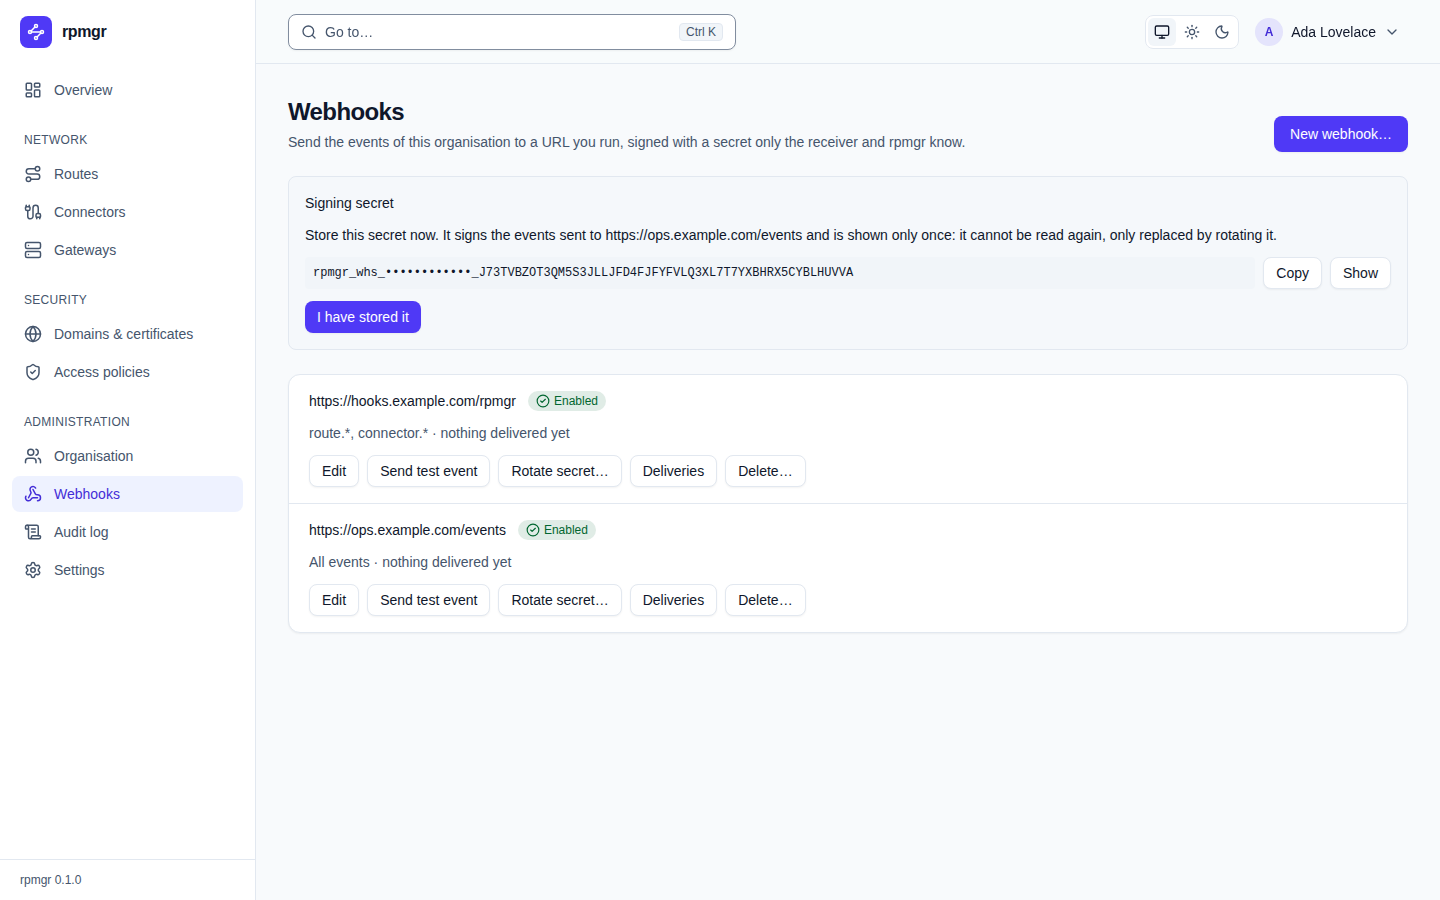
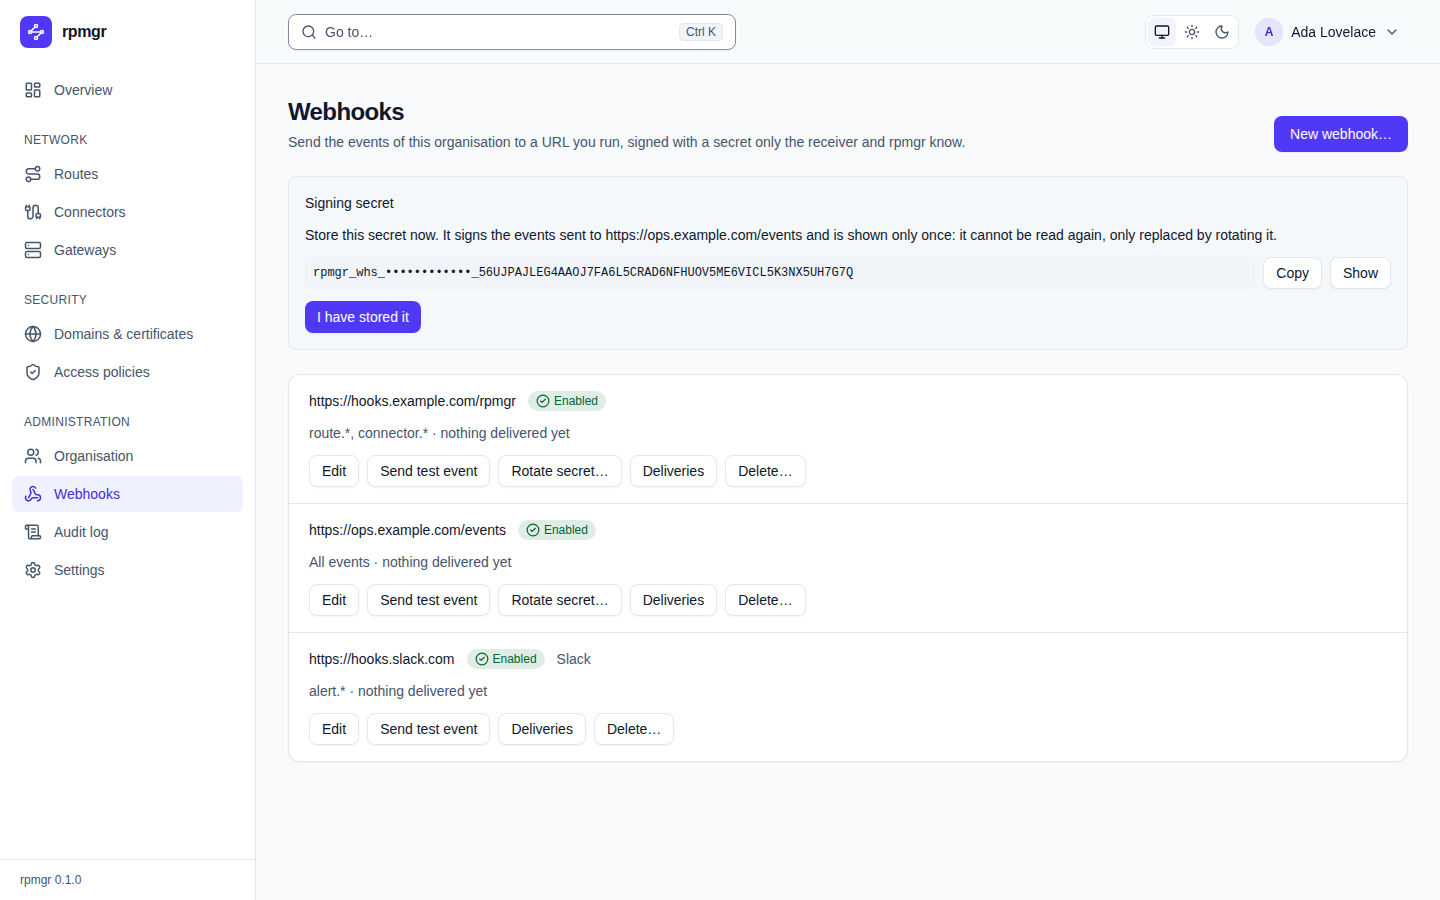
feat(web): choose a webhook's format, with a write-only chat URL
A chat endpoint's URL holds the service's token, so its field starts empty, a row shows the host only, no signing secret is shown and Rotate is not offered. Also the guide, its screenshot and the changelog.

diff --git a/web/src/pages/webhooks.tsx b/web/src/pages/webhooks.tsx
@@ -8,7 +8,7 @@ import { Webhook as WebhookIcon } from "lucide-react";
 import { useState, type FormEvent } from "react";
 import { useTranslation } from "react-i18next";
 import { EmptyState } from "@/components/empty-state";
-import { Field } from "@/components/field";
+import { Field, labelClass } from "@/components/field";
 import { OneTimeToken } from "@/components/one-time-token";
 import { PageHeader } from "@/components/page-header";
 import { Alert } from "@/components/public-page";
@@ -16,14 +16,24 @@ import { Row, RowList, panel } from "@/components/row-list";
 import { Status, type Look } from "@/components/status";
 import { Button } from "@/components/ui/button";
 import { Card } from "@/components/ui/card";
+import { Select } from "@/components/ui/input";
 import { Switch } from "@/components/ui/switch";
-import { InstanceWebhookService, WebhookService, type Webhook, type WebhookDelivery } from "@/gen/rpmgr/v1/webhook_pb";
+import { InstanceWebhookService, WebhookFormat, WebhookService, type Webhook, type WebhookDelivery } from "@/gen/rpmgr/v1/webhook_pb";
 import { apiError, serverProblems, type Problems } from "@/lib/api-error";
 import { Reason, reasonOf } from "@/lib/errors";
 import { when } from "@/lib/format";
 import { useOrg } from "@/session";
 
-const shown = ["url", "event_types"];
+const shown = ["url", "secret_url", "event_types"];
+
+// The formats of an endpoint (docs/07-api.md, "Webhooks"): rpmgr's signed JSON, or a message for a
+// chat service, whose URL holds the service's token (D162).
+const formats = [
+  [WebhookFormat.RPMGR, "rpmgr"], [WebhookFormat.DISCORD, "discord"], [WebhookFormat.SLACK, "slack"], [WebhookFormat.TEAMS, "teams"],
+] as const;
+
+// isChat says whether f is a chat format: its URL is write-only and it has no signing secret.
+export const isChat = (f: WebhookFormat): boolean => f === WebhookFormat.DISCORD || f === WebhookFormat.SLACK || f === WebhookFormat.TEAMS;
 
 // writers are the roles that hold webhooks.write (docs/04-security.md, "Roles"). The API needs it
 // for every method, reads included, since a URL may carry a token of the receiver's.
@@ -64,8 +74,8 @@ export function failure(t: TFunction, err: unknown): string {
 export interface Api {
   orgId?: string;
   pending: boolean;
-  create: (w: { url: string; eventTypes: string[]; enabled: boolean }) => Promise<{ webhook?: Webhook; secret: string }>;
-  update: (w: { id: string; url?: string; eventTypes?: string[]; enabled?: boolean }, paths: string[], etag: string) => Promise<unknown>;
+  create: (w: { url?: string; secretUrl?: string; format: WebhookFormat; eventTypes: string[]; enabled: boolean }) => Promise<{ webhook?: Webhook; secret: string }>;
+  update: (w: { id: string; url?: string; secretUrl?: string; format?: WebhookFormat; eventTypes?: string[]; enabled?: boolean }, paths: string[], etag: string) => Promise<unknown>;
   rotate: (id: string) => Promise<{ secret: string }>;
   remove: (id: string, etag: string) => Promise<unknown>;
   test: (id: string) => Promise<{ delivered: boolean; statusCode: number; error: string }>;
@@ -150,7 +160,7 @@ function WebhookList({ orgId }: { orgId?: string }) {
   const body = (
     <>
       {secret && <Secret url={secret.url} value={secret.value} onDone={() => setSecret(undefined)} />}
-      {adding && <Form api={api} onCancel={() => setAdding(false)} onDone={(w, value) => (setAdding(false), setSecret({ url: w.url, value }))} />}
+      {adding && <Form api={api} onCancel={() => setAdding(false)} onDone={(w, value) => (setAdding(false), value && setSecret({ url: w.url, value }))} />}
       {list.error && <Alert>{t("link.failed", { message: ConnectError.from(list.error).rawMessage })}</Alert>}
       {list.data && list.data.webhooks.length > 0 && (
         <RowList framed aria-label={t("webhooks.title")}>
@@ -189,7 +199,10 @@ function Secret({ url, value, onDone }: { url: string; value: string; onDone: ()
 function Form({ api, webhook, onCancel, onDone }: { api: Api; webhook?: Webhook; onCancel: () => void; onDone: (w: Webhook, secret: string) => void }) {
   const { t } = useTranslation();
   const queryClient = useQueryClient();
-  const [url, setUrl] = useState(webhook?.url ?? "");
+  const [format, setFormat] = useState(webhook?.format ?? WebhookFormat.RPMGR);
+  // A chat endpoint's URL is never read back: its field starts empty and, when editing, an empty
+  // field keeps the stored URL.
+  const [url, setUrl] = useState(webhook && !isChat(webhook.format) ? webhook.url : "");
   const [types, setTypes] = useState(webhook?.eventTypes.join(", ") ?? "");
   const [enabled, setEnabled] = useState(webhook?.enabled ?? true);
   const [error, setError] = useState("");
@@ -198,7 +211,10 @@ function Form({ api, webhook, onCancel, onDone }: { api: Api; webhook?: Webhook;
   async function submit(e: FormEvent) {
     e.preventDefault();
     setError("");
-    const bad = checkUrl(t, url);
+    const chat = isChat(format);
+    const changed = webhook !== undefined && format !== webhook.format;
+    const keep = webhook !== undefined && chat && !changed && url === "";
+    const bad = keep ? "" : checkUrl(t, url);
     if (bad) {
       setProblems({ url: bad });
       return;
@@ -207,11 +223,18 @@ function Form({ api, webhook, onCancel, onDone }: { api: Api; webhook?: Webhook;
     const eventTypes = eventTypesOf(types);
     try {
       if (webhook) {
-        await api.update({ id: webhook.id, url, eventTypes, enabled }, ["url", "event_types", "enabled"], webhook.etag);
+        const paths = chat ? ["event_types", "enabled"] : ["url", "event_types", "enabled"];
+        if (changed) {
+          paths.push("format");
+        }
+        if (chat && url !== "") {
+          paths.push("secret_url");
+        }
+        await api.update({ id: webhook.id, ...(chat ? { secretUrl: url } : { url }), format, eventTypes, enabled }, paths, webhook.etag);
         await queryClient.invalidateQueries();
         onDone(webhook, "");
       } else {
-        const r = await api.create({ url, eventTypes, enabled });
+        const r = await api.create({ ...(chat ? { secretUrl: url } : { url }), format, eventTypes, enabled });
         await queryClient.invalidateQueries();
         onDone(r.webhook!, r.secret);
       }
@@ -221,14 +244,24 @@ function Form({ api, webhook, onCancel, onDone }: { api: Api; webhook?: Webhook;
     }
   }
 
+  // The URL is needed unless a chat endpoint keeps the one it has.
+  const urlRequired = !webhook || !isChat(format) || format !== webhook.format;
   return (
     <form onSubmit={submit} className={panel} noValidate aria-label={t(webhook ? "webhooks.edit" : "webhooks.new")}>
-      <Field label={t("webhooks.url")} hint={t("webhooks.urlHint")} type="url" required maxLength={2048} error={problems.url} value={url} onChange={(e) => setUrl(e.target.value)} />
+      <div className="grid gap-1.5">
+        <label htmlFor="webhook-format" className={labelClass()}>{t("webhooks.format")}</label>
+        <Select id="webhook-format" className="justify-self-start" value={format} onChange={(e) => setFormat(Number(e.target.value))}>
+          {formats.filter(([f]) => f !== WebhookFormat.RPMGR || !webhook || !isChat(webhook.format)).map(([f, k]) => <option key={k} value={f}>{t(`webhooks.formats.${k}`)}</option>)}
+        </Select>
+        <p className="text-xs text-muted-foreground">{t(isChat(format) ? "webhooks.formatChatHint" : "webhooks.formatRpmgrHint")}</p>
+      </div>
+      <Field label={t(isChat(format) ? "webhooks.chatUrl" : "webhooks.url")} hint={t(isChat(format) ? (webhook && format === webhook.format ? "webhooks.chatUrlKeep" : "webhooks.chatUrlHint") : "webhooks.urlHint")}
+        type="url" required={urlRequired} maxLength={2048} error={problems.url ?? problems.secret_url} value={url} onChange={(e) => setUrl(e.target.value)} />
       <Field label={t("webhooks.events")} hint={t("webhooks.eventsHint")} error={problems.event_types} value={types} onChange={(e) => setTypes(e.target.value)} />
       <Switch checked={enabled} onClick={() => setEnabled(!enabled)} className="justify-self-start">{t("webhooks.enabled")}</Switch>
       {error && <Alert>{error}</Alert>}
       <div className="flex gap-2">
-        <Button type="submit" disabled={api.pending || url === ""}>{t(webhook ? "webhooks.save" : "webhooks.create")}</Button>
+        <Button type="submit" disabled={api.pending || (urlRequired && url === "")}>{t(webhook ? "webhooks.save" : "webhooks.create")}</Button>
         <Button type="button" variant="outline" onClick={onCancel}>{t("stepUp.cancel")}</Button>
       </div>
     </form>
@@ -281,6 +314,7 @@ function Endpoint({ api, webhook: w, onSecret }: { api: Api; webhook: Webhook; o
       <div className="flex flex-wrap items-center gap-x-3 gap-y-1">
         <span className="font-medium break-all">{w.url}</span>
         <Status look={state.look}>{state.text}</Status>
+        {isChat(w.format) && <span className="text-muted-foreground">{t(`webhooks.formats.${formats.find(([f]) => f === w.format)?.[1] ?? "rpmgr"}`)}</span>}
       </div>
       <div className="text-muted-foreground">
         {w.eventTypes.length > 0 ? w.eventTypes.join(", ") : t("webhooks.allEvents")}
@@ -320,7 +354,7 @@ function Endpoint({ api, webhook: w, onSecret }: { api: Api; webhook: Webhook; o
             })}>
             {t("webhooks.test")}
           </Button>
-          <Button size="sm" variant="outline" onClick={() => setAsk("rotate")}>{t("webhooks.rotateStart")}</Button>
+          {w.secretSet && <Button size="sm" variant="outline" onClick={() => setAsk("rotate")}>{t("webhooks.rotateStart")}</Button>}
           <Button size="sm" variant="outline" aria-expanded={log} onClick={() => setLog(!log)}>{t("webhooks.deliveries")}</Button>
           <Button size="sm" variant="outline" onClick={() => setAsk("delete")}>{t("webhooks.deleteStart")}</Button>
         </div>

diff --git a/web/src/pages/webhooks.test.tsx b/web/src/pages/webhooks.test.tsx
@@ -4,7 +4,7 @@ import { Code, ConnectError } from "@connectrpc/connect";
 import { cleanup, fireEvent, screen, waitFor, within } from "@testing-library/react";
 import { afterEach, describe, expect, it } from "vitest";
 import { Theme, UserService } from "@/gen/rpmgr/v1/user_pb";
-import { WebhookService, type CreateWebhookRequest, type UpdateWebhookRequest } from "@/gen/rpmgr/v1/webhook_pb";
+import { WebhookFormat, WebhookService, type CreateWebhookRequest, type UpdateWebhookRequest } from "@/gen/rpmgr/v1/webhook_pb";
 import { apiError, auth, show } from "@/testing/api";
 import { marked, unmatched } from "@/testing/required";
 
@@ -12,6 +12,7 @@ afterEach(cleanup);
 
 const ts = (s: number) => ({ seconds: BigInt(s) });
 const live = { id: "whk_1", orgId: "org_1", url: "https://hooks.example.com/a", eventTypes: ["route.*"], enabled: true, secretSet: true, etag: "e1", lastSuccessTime: ts(1_700_000_000) };
+const chat = { id: "whk_3", orgId: "org_1", url: "https://discord.com", format: WebhookFormat.DISCORD, eventTypes: ["alert.*"], enabled: true, secretSet: false, etag: "e3" };
 const dead = { id: "whk_2", orgId: "org_1", url: "https://hooks.example.com/b", eventTypes: [], enabled: false, secretSet: true, etag: "e2", failingSinceTime: ts(1_700_000_000) };
 
 interface Calls { creates: CreateWebhookRequest[]; updates: UpdateWebhookRequest[]; rotated: string[]; deleted: string[]; tested: string[]; listed: number; deliveryPages: string[] }
@@ -31,14 +32,16 @@ function webhooks(role = "owner", opts: { hooks?: object[]; create?: ConnectErro
         if (opts.create) {
           throw opts.create;
         }
-        hooks = [...hooks, { ...req.webhook, id: "whk_new", orgId: "org_1", secretSet: true }];
-        return { webhook: hooks.at(-1), secret: "rpmgr_whs_SECRET1" };
+        const isChat = req.webhook!.format !== WebhookFormat.UNSPECIFIED && req.webhook!.format !== WebhookFormat.RPMGR;
+        // A chat endpoint shows its host only and has no signing secret.
+        hooks = [...hooks, { ...req.webhook, id: "whk_new", orgId: "org_1", secretSet: !isChat, secretUrl: "", url: isChat ? new URL(req.webhook!.secretUrl).origin : req.webhook!.url }];
+        return { webhook: hooks.at(-1), secret: isChat ? "" : "rpmgr_whs_SECRET1" };
       },
       updateWebhook: (req) => {
         c.updates.push(req);
         const w = req.webhook!;
         const camel = (k: string) => k.replace(/_(\w)/g, (_m, ch: string) => ch.toUpperCase());
-        const set: Record<string, unknown> = { url: w.url, eventTypes: w.eventTypes, enabled: w.enabled };
+        const set: Record<string, unknown> = { url: w.url, eventTypes: w.eventTypes, enabled: w.enabled, format: w.format };
         const patch = Object.fromEntries((req.updateMask?.paths ?? []).map((k) => [camel(k), set[camel(k)]]));
         hooks = hooks.map((h) => ((h as { id: string }).id === w.id ? { ...h, ...patch } : h));
         return {};
@@ -137,6 +140,83 @@ describe("Webhooks", () => {
     fireEvent.click(a.getByRole("button", { name: "Save" }));
     expect(await screen.findByText(/audit\.\*/)).toBeTruthy();
     expect(c.updates.map((u) => [u.webhook?.id, u.webhook?.eventTypes, u.updateMask?.paths, u.etag])).toEqual([["whk_1", ["audit.*"], ["url", "event_types", "enabled"], "e1"]]);
+  });
+
+  it("creates a chat endpoint with the service's URL in secretUrl and shows no secret", async () => {
+    const c = webhooks();
+    const s = await page();
+    fireEvent.click(await s.findByRole("button", { name: "New webhook…" }));
+    fireEvent.change(s.getByLabelText("Format"), { target: { value: String(WebhookFormat.SLACK) } });
+    expect(s.getByText(/has no signing secret/)).toBeTruthy();
+    fireEvent.change(s.getByLabelText("Webhook URL of the service"), { target: { value: "https://hooks.slack.com/services/T/B/TOKEN" } });
+    fireEvent.click(s.getByRole("button", { name: "Create the webhook" }));
+    const row = await rowOf("https://hooks.slack.com");
+    expect(row.getByText("Slack")).toBeTruthy();
+    expect(row.queryByRole("button", { name: "Rotate secret…" })).toBeNull();
+    expect(screen.queryByRole("region", { name: "Signing secret" })).toBeNull();
+    expect(c.creates.map((r) => [r.webhook?.format, r.webhook?.url, r.webhook?.secretUrl])).toEqual([[WebhookFormat.SLACK, "", "https://hooks.slack.com/services/T/B/TOKEN"]]);
+    expect(document.body.textContent).not.toContain("TOKEN");
+  });
+
+  it("refuses a chat URL that is not https before it sends anything", async () => {
+    const c = webhooks();
+    const s = await page();
+    fireEvent.click(await s.findByRole("button", { name: "New webhook…" }));
+    fireEvent.change(s.getByLabelText("Format"), { target: { value: String(WebhookFormat.DISCORD) } });
+    fireEvent.change(s.getByLabelText("Webhook URL of the service"), { target: { value: "http://discord.com/api/webhooks/1/x" } });
+    fireEvent.click(s.getByRole("button", { name: "Create the webhook" }));
+    expect(await s.findByText("The URL must start with https://.")).toBeTruthy();
+    expect(c.creates).toEqual([]);
+  });
+
+  it("edits a chat endpoint without its URL: nothing of the URL is sent, and it cannot be rotated", async () => {
+    const c = webhooks("owner", { hooks: [chat] });
+    const d = await rowOf("https://discord.com");
+    expect(d.getByText("Discord")).toBeTruthy();
+    expect(d.queryByRole("button", { name: "Rotate secret…" })).toBeNull();
+    fireEvent.click(d.getByRole("button", { name: "Edit" }));
+    expect((d.getByLabelText("Webhook URL of the service") as HTMLInputElement).value).toBe("");
+    expect(d.queryByRole("option", { name: "rpmgr (signed JSON)" })).toBeNull();
+    fireEvent.change(d.getByLabelText("Event types"), { target: { value: "route.*" } });
+    fireEvent.click(d.getByRole("button", { name: "Save" }));
+    await waitFor(() => expect(c.updates).toHaveLength(1));
+    expect(c.updates.map((u) => [u.updateMask?.paths, u.webhook?.secretUrl, u.etag])).toEqual([[["event_types", "enabled"], "", "e3"]]);
+  });
+
+  it("changes a chat endpoint's URL, and its format only with a new URL", async () => {
+    const c = webhooks("owner", { hooks: [chat] });
+    const d = await rowOf("https://discord.com");
+    fireEvent.click(d.getByRole("button", { name: "Edit" }));
+    fireEvent.change(d.getByLabelText("Format"), { target: { value: String(WebhookFormat.TEAMS) } });
+    // A new format needs a new URL: a URL belongs to its service.
+    expect((d.getByRole("button", { name: "Save" }) as HTMLButtonElement).disabled).toBe(true);
+    expect(c.updates).toEqual([]);
+    fireEvent.change(d.getByLabelText("Webhook URL of the service"), { target: { value: "https://prod-1.logic.azure.com/workflows/x?sig=y" } });
+    fireEvent.click(d.getByRole("button", { name: "Save" }));
+    await waitFor(() => expect(c.updates).toHaveLength(1));
+    expect(c.updates.map((u) => [u.updateMask?.paths, u.webhook?.format, u.webhook?.secretUrl])).toEqual([
+      [["event_types", "enabled", "format", "secret_url"], WebhookFormat.TEAMS, "https://prod-1.logic.azure.com/workflows/x?sig=y"]]);
+  });
+
+  it("turns an rpmgr endpoint into a chat one with a new URL", async () => {
+    const c = webhooks();
+    const a = await rowOf("https://hooks.example.com/a");
+    fireEvent.click(a.getByRole("button", { name: "Edit" }));
+    fireEvent.change(a.getByLabelText("Format"), { target: { value: String(WebhookFormat.DISCORD) } });
+    fireEvent.change(a.getByLabelText("Webhook URL of the service"), { target: { value: "https://discord.com/api/webhooks/1/x" } });
+    fireEvent.click(a.getByRole("button", { name: "Save" }));
+    await waitFor(() => expect(c.updates).toHaveLength(1));
+    expect(c.updates[0]!.updateMask?.paths).toEqual(["event_types", "enabled", "format", "secret_url"]);
+  });
+
+  it("shows why the server refused a chat endpoint", async () => {
+    webhooks("owner", { create: new ConnectError("api: the url of a chat service has a path that holds its token, and this has none", Code.InvalidArgument) });
+    const s = await page();
+    fireEvent.click(await s.findByRole("button", { name: "New webhook…" }));
+    fireEvent.change(s.getByLabelText("Format"), { target: { value: String(WebhookFormat.DISCORD) } });
+    fireEvent.change(s.getByLabelText("Webhook URL of the service"), { target: { value: "https://discord.com" } });
+    fireEvent.click(s.getByRole("button", { name: "Create the webhook" }));
+    expect((await s.findByRole("alert")).textContent).toContain("holds its token");
   });
 
   it("enables a disabled endpoint again", async () => {

diff --git a/web/screens/screens.spec.ts b/web/screens/screens.spec.ts
@@ -252,6 +252,7 @@ test("screenshots of the user guide", async ({ page, browser }) => {
   await open(page, "Organisation", "Example Lab");
   await shot(page, "organisation", true);
   // Two endpoints; the second one's secret stays on the page, masked, as it does after creating it.
+  // Then a Slack one, which has no signing secret and shows only its host.
   await open(page, "Webhooks", "Webhooks");
   for (const [url, types] of [["https://hooks.example.com/rpmgr", "route.*, connector.*"], ["https://ops.example.com/events", ""]]) {
     await page.getByRole("button", { name: "New webhook…" }).click();
@@ -263,6 +264,12 @@ test("screenshots of the user guide", async ({ page, browser }) => {
       await page.getByRole("button", { name: "I have stored it" }).click();
     }
   }
+  await page.getByRole("button", { name: "New webhook…" }).click();
+  await page.getByLabel("Format").selectOption({ label: "Slack" });
+  await page.getByLabel("Webhook URL of the service").fill("https://hooks.slack.com/services/T0000/B0000/example");
+  await page.getByLabel("Event types").fill("alert.*");
+  await page.getByRole("button", { name: "Create the webhook" }).click();
+  await expect(page.getByText("Slack", { exact: true })).toBeVisible();
   await shot(page, "webhooks", true);
   await open(page, "Audit log", "Audit log");
   // An entry opened, whose long request wraps within the page.

diff --git a/docs/guide/web-ui/webhooks.md b/docs/guide/web-ui/webhooks.md
@@ -7,7 +7,7 @@ of the receiver's and the API therefore lets no other role read it. The how-to p
 format of the events, how to check a signature and what happens when an endpoint fails, is
 [Webhooks](../operations/webhooks.md).
 
-![The Webhooks page with a new signing secret above two endpoints](../images/web/webhooks.png)
+![The Webhooks page with a new signing secret above two endpoints and a Slack endpoint](../images/web/webhooks.png)
 
 ## The endpoints
 
@@ -27,9 +27,16 @@ Each endpoint is a row with its URL, its **state**, its event types and when it 
 
 **New webhook…** opens a form; **Edit** in a row opens it with the endpoint's values.
 
+- **Format** is `rpmgr (signed JSON)`, the default, or **Discord**, **Slack** or **Microsoft
+  Teams**, which post each event as a message people read in the chat service.
 - **URL** is an `https://` address without a user name, a password or a fragment. The page checks
   this before it sends anything; the server checks the rest, such as the length and the receivers
-  it may not reach, and its reason is shown above the buttons.
+  it may not reach, and its reason is shown above the buttons. For a chat format the field is
+  **Webhook URL of the service**, the incoming webhook URL you copied there. It holds the service's
+  token, so it is stored encrypted and never shown again: the row shows only its host, such as
+  `https://hooks.slack.com`, and when you edit the endpoint the field is empty. Leave it empty to
+  keep the stored URL, or enter a new one. Changing the format needs a new URL, because a URL
+  belongs to its service; a chat endpoint cannot be changed back to `rpmgr`, make a new one.
 - **Event types** are names or prefixes such as `route.*`, separated by commas. Empty means all
   events.
 - **Enabled** switches the endpoint on or off.
@@ -38,7 +45,9 @@ Each endpoint is a row with its URL, its **state**, its event types and when it 
 
 ## The signing secret
 
-Creating an endpoint, and **Rotate secret…**, show the **Signing secret** above the list. It is
+An endpoint of the format `rpmgr` has a signing secret; a chat endpoint has none, as the services
+verify none, so creating one shows no secret and its row has no **Rotate secret…**. Creating an
+`rpmgr` endpoint, and **Rotate secret…**, show the **Signing secret** above the list. It is
 shown once: no page, command or API call reads it back. **Copy** puts it on the clipboard; **Show**
 reveals it where the browser cannot copy. Store it where the receiver can check signatures with it,
 then choose **I have stored it**, which removes it from the page. A secret you did not store is

diff --git a/docs/09-web-ui.md b/docs/09-web-ui.md
@@ -890,7 +890,10 @@ one page, with a section list beside them that jumps to each section
   ([04](04-security.md#webhooks-and-the-egress-guard-phase-2)); **Send test event**; the
   deliveries of an endpoint with their attempts, status codes, errors and next retry. A URL the
   egress guard refuses for a private range names the range and, for an Instance Admin, offers to
-  list it.
+  list it. The form has a **Format** ([D162](14-open-decisions.md#engineering)): rpmgr's signed
+  JSON, or Discord, Slack or Microsoft Teams, whose URL field is write-only: it starts empty, a
+  row shows the service's host only, an empty field when editing keeps the stored URL, and a new
+  format needs a new URL. A chat endpoint shows no signing secret and offers no **Rotate secret…**.
 - **Settings → Webhooks** (Instance Admin, a tab beside PKI, Updates and Users): the instance's
   endpoints as above, which receive instance events and may name a receiver on loopback or a
   private network; and the instance setting `webhook_private_ranges` as a list of ranges, one per

diff --git a/CHANGELOG.md b/CHANGELOG.md
@@ -16,7 +16,8 @@ Changes to the design documents are not recorded here: see the git history and t
   each event as a message people read in the chat service, with the summary as the title, the
   event's type, organisation, actor, subject and time as fields, and an alert red when it fires
   and green when it resolves. Set it with `rpmgr create webhook --format slack --url-file <file>`
-  or the API's `format` and `secretUrl`. The service's URL holds its token, so it is stored
+  or the API's `format` and `secretUrl`, or the **Format** of **New webhook…** in the web UI. The
+  service's URL holds its token, so it is stored
   encrypted, can be entered but never read back, and is shown as its scheme and host only; such an
   endpoint has no signing secret and cannot be rotated. A `429` from the service delays the next
   attempt by what it asks, and is no failure of the endpoint. (#1060)

diff --git a/docs/guide/operations/webhooks.md b/docs/guide/operations/webhooks.md
@@ -31,7 +31,8 @@ for any endpoint.
 1. In the service, make an incoming webhook for the channel and copy its URL. Discord:
    channel settings, Integrations, Webhooks. Slack: an app with Incoming Webhooks. Teams: a
    workflow with the trigger "When a Teams webhook request is received" that posts the card.
-2. Make the endpoint with the format `discord`, `slack` or `teams` and that URL (see below).
+2. Open **Administration → Webhooks**, choose **New webhook…**, pick the **Format** `Discord`,
+   `Slack` or `Microsoft Teams` and paste the URL, or use the command line (see below).
 3. Send a test event and check the channel.
 
 The URL holds the service's token, so rpmgr treats it as a secret: it is stored encrypted, never
